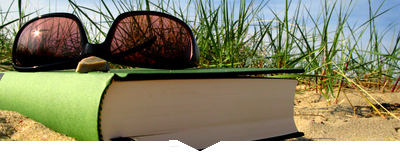
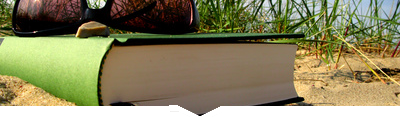
css_v2

diff --git a/index.html b/index.html
@@ -3,6 +3,7 @@
 
 <head>
     <meta charset="UTF-8">
+    <meta name="viewport" content="width=device-width, initial-scale=1.0">
     <title>Verhalen voor onderweg</title>
     <link rel="stylesheet" href="css/stylesheet.css">
     <link href="https://fonts.googleapis.com/css?family=Open+Sans" rel="stylesheet">
@@ -12,8 +13,8 @@
 <nav>
         <ul>
            <li><img src="img/logo_icon.png" alt="logo"><a href="index.html"></a></li>
-            <li><img src="img/account_icon.png" alt="account icon"><a class="account" href="aanmelden.html">Inloggen</a></li>
-                        <li><img src="img/lijstje_icon.png" alt="mijn lijstje icon"><a class="mijnlijstje" href="mijnlijstje.html">Mijn lijstje</a></li>
+            <li><img src="img/account_icon.png" alt="account icon"><a href="aanmelden.html">Inloggen</a></li>
+                        <li><img src="img/lijstje_icon.png" alt="mijn lijstje icon"><a href="mijnlijstje.html">Mijn lijstje</a></li>
         </ul>
     </nav>
 
@@ -22,6 +23,7 @@
         </div>
 
     <section class="filters">
+       <section class="categorieen">
         <form>
             <fieldset>
                 <legend>Filteropties</legend>
@@ -36,7 +38,8 @@
                 </select>
             </fieldset>
         </form>
-
+        </section>
+<section class ="sorteren">
         <form>
             <fieldset>
                 <legend>Sorteeropties</legend>
@@ -57,67 +60,68 @@
                 <img src="img/zoek_icon.png" alt="zoekfunctie">
             </fieldset>
         </form>
+        </section>
     </section>
 
         <main>
         <article>
+           <header>
             <h2>Boers</h2>
-            <footer>
+               <span> Vreemde taal</span>
                 <span>Stijloefening 86</span>
-                <span>Vreemde taal</span>
                 <time datetime="2011-07-14">14 juli 2011</time>
                 <a href="autheur.html" class="autheur">Molovisch</a>
                 <span>+500 woorden</span>
-            </footer>
-            <p>Ik stap dus op ut stationsplein in dieën groâte stad uut dieën bus, met mien zoân in zijne keierwoâguh. Mien zoân sloâpt. Gelaik n’n roâske. Ut regent en ut woâit. Ut volk war voârnoâm’luk met z’n eigens bezig. Kop in den kroâg, gok richting grond. En den deze war op weg noâr den Bibliotheek.</p><a href="vreemdetaal.html">Verder lezen</a>
+            </header>
+            <p>Ik stap dus op ut stationsplein in dieën groâte stad uut dieën bus, met mien zoân in zijne keierwoâguh. Mien zoân sloâpt. Gelaik n’n roâske. Ut regent en ut woâit. Ut volk war voârnoâm’luk met z’n eigens bezig. Kop in den kroâg, gok richting grond. En den deze war op weg noâr den Bibliotheek.</p><a href="vreemdetaal.html">Lees verder</a>
         </article>
 
         <article>
+           <header>
             <h2>Vrijdag de 13e</h2>
-            <footer>
+                   <span>Ervaringen</span>
                 <span>Stijloefening 71</span>
-                <span>Ervaringen</span>
                 <time datetime="2011-05-13">13 mei 2011</time>
                 <a href="autheur.html" class="autheur">Molovisch</a>
                 <span>+700 woorden</span>
-            </footer>
-            <p>Bij het uitstappen van de bus waait mijn jas open, precies op het moment dat de buschauffeur de deuren sluit. Terwijl ik de kinderwagen waarin mijn zoon ligt te krijsen vasthoudt, ren ik mee met de bus en schreeuw ik naar de buschauffeur dat hij moet stoppen, maar hij hoorte me niet.</p><a href="ervaringen.html">Verder lezen</a>
+            </header>
+            <p>Bij het uitstappen van de bus waait mijn jas open, precies op het moment dat de buschauffeur de deuren sluit. Terwijl ik de kinderwagen waarin mijn zoon ligt te krijsen vasthoudt, ren ik mee met de bus en schreeuw ik naar de buschauffeur dat hij moet stoppen, maar hij hoorte me niet.</p><a href="ervaringen.html">Lees verder</a>
         </article>
 
         <article>
+           <header>
             <h2>Lange Frans</h2>
-            <footer>
-                <span>Stijloefening 69</span>
                 <span>Gerijm</span>
+                <span>Stijloefening 69</span>
                 <time datetime="2011-05-10">10 mei 2011</time>
                 <a href="autheur.html" class="autheur">Molovisch</a>
                 <span>+400 woorden</span>
-            </footer>
-            <p>Uh, uh, dit is Lange Frans, uh, uh Daar gaan we dan… Drop die beat. (De beat wordt gedropt, Lange Frans gaat er vol in:) Het is dinsdagochtend, zoveel februari Ik stap uit de bus, zonder veel bombarie Voor me slaapt mijn zoon, in z’n kinderwagen. Voor hem zing ik dit lied.</p><a href="gerijm.html">Verder lezen</a>
+                </header>
+            <p>Uh, uh, dit is Lange Frans, uh, uh Daar gaan we dan… Drop die beat. (De beat wordt gedropt, Lange Frans gaat er vol in:) Het is dinsdagochtend, zoveel februari Ik stap uit de bus, zonder veel bombarie Voor me slaapt mijn zoon, in z’n kinderwagen. Voor hem zing ik dit lied.</p><a href="gerijm.html">Lees verder</a>
         </article>
 
         <article>
+           <header>
             <h2>Interview</h2>
-            <footer>
-                <span>Stijloefening 78</span>
                 <span>Dialoog</span>
+                <span>Stijloefening 78</span>
                 <time datetime="2011-06-01">01 juni 2011</time>
                 <a href="autheur.html" class="autheur">Molovisch</a>
                 <span>+900 woorden</span>
-            </footer>
-            <p>Molovich: De avond valt. In de verte het hongerige geblaf een roedel bloedhonden op zoek naar een ontsnapte gevangene. Wij zitten binnen. Plaid over de benen, een gin-tonic binnen handbereik. Naast mij zit ikzelf, Max J. Molovich. Levensgenieter, goeroe zonder volgelingen en zorgzame vader.</p><a href="dialoog.html">Verder lezen</a>
+                </header>
+            <p>Molovich: De avond valt. In de verte het hongerige geblaf een roedel bloedhonden op zoek naar een ontsnapte gevangene. Wij zitten binnen. Plaid over de benen, een gin-tonic binnen handbereik. Naast mij zit ikzelf, Max J. Molovich. Levensgenieter, goeroe zonder volgelingen en zorgzame vader.</p><a href="dialoog.html">Lees verder</a>
         </article>
 
         <article>
+           <header>
             <h2>Beroemd</h2>
-            <footer>
+               <span>Busverhalen</span>
                 <span>Stijloefening 98</span>
-                <span>Busverhalen</span>
                 <time datetime="2011-07-11">11 juli 2011</time>
                 <a href="autheur.html" class="autheur">Molovisch</a>
                 <span>+900 woorden</span>
-            </footer>
-            <p>Vlak voordat ik de bus uitstap bedank ik de buschauffeur via de spiegel voor zijn diensten. Hij zwaait joviaal terug. ‘Mijn vrouw is een groot fan van u’, roept hij. ‘Doe haar de groeten’, zeg ik en stap uit. Centraal Station. Ik duw mijn zoon voort.</p><a href="busverhalen.html">Verder lezen</a>
+            </header>
+            <p>Vlak voordat ik de bus uitstap bedank ik de buschauffeur via de spiegel voor zijn diensten. Hij zwaait joviaal terug. ‘Mijn vrouw is een groot fan van u’, roept hij. ‘Doe haar de groeten’, zeg ik en stap uit. Centraal Station. Ik duw mijn zoon voort.</p><a href="busverhalen.html">Lees verder</a>
         </article>
     </main>
 

diff --git a/css/stylesheet.css b/css/stylesheet.css
@@ -92,7 +92,9 @@ video {
     vertical-align: baseline;
 }
 
+
 /* HTML5 display-role reset for older browsers */
+
 article,
 aside,
 details,
@@ -136,10 +138,12 @@ table {
 
 
 /*mijn css*/
+
 body {
     font-family: 'Open Sans', sans-serif;
     font-size: 1em;
     line-height: 1.2em;
+    box-sizing: border-box;
 }
 
 h1 {
@@ -163,36 +167,44 @@ a {
 }
 
 footer {
-font-size: 0.6em;
+    font-size: 0.6em;
 }
 
+
 /*Omslag*/
+
 .omslag {
-    background-color: #fff;
+    background-color: red;
     background-image: url("../img/topfoto2.png");
-    background-size: cover;
+    background-position: center;
+    background-repeat: no-repeat;
+    height: 7.5em;
 }
 
 .omslag > h1 {
     color: #fff;
     text-align: center;
-    padding: 0.5em;
+    padding: 1em 0.5em;
 }
 
+
 /*artikel*/
+
 article {
     background-color: rgba(237, 219, 202, 0.5);
     margin: 3% 0;
     padding: 0.7em 1em;
 }
 
-article > footer {
+header {
     font-size: 0.8em;
 }
 
 article > a {
     background-color: #e83a69;
     text-decoration: none;
+    display: table;
+    margin: 0.5em;
     padding: 0.3em 0.8em;
     border-radius: 5px;
     text-align: center;
@@ -200,10 +212,14 @@ article > a {
 }
 
 /*navigatie*/
+
 nav {
-    text-align: right;
-    align-items: baseline;
     padding: 0 0.5em 0.5em 0.5em;
+}
+
+nav > ul {
+    display: flex;
+    align-items: baseline;
 }
 
 li {
@@ -212,6 +228,8 @@ li {
 
 li > img {
     width: 1em;
+    position: relative;
+    top: 0.15em;
     margin: 0.5em 0.5em 0em 0.5em;
 }
 
@@ -219,30 +237,51 @@ li > a {
     text-decoration: none;
 }
 
-.mijnlijstje {
-    color: #e83a69;
+li:nth-of-type(1) {
+    flex-grow: 6;
 }
 
-.account {
+li:nth-of-type(2) a {
     color: #55b366;
+    margin-right: 0.5em;
+}
+
+li:nth-of-type(3) a {
+    color: #e83a69;
+    margin-right: 0.5em;
 }
 
 
 /*filters*/
+
 .filters {
     display: flex;
+    width: 100vw;
+    justify-content: space-around;
     max-width: 30em;
-}
-
-.filters > form {
-    width: 50%;
+    margin: auto;
+    padding: 0 1em;
 }
 
 legend {
     display: none;
 }
 
-select{
-    width: 100%;
+section {
+    display: flex;
 }
 
+.categorieen{
+    flex-basis: 50%;
+}
+
+.categorieen select {
+width: 15em;
+}
+.sorteren{
+flex-basis: 50%;
+}
+
+.sorteren select {
+width: 13em;
+}

diff --git a/aanmelden.html b/aanmelden.html
@@ -3,6 +3,7 @@
 
 <head>
     <meta charset="UTF-8">
+    <meta name="viewport" content="width=device-width, initial-scale=1.0">
     <title>Aanmelden</title>
     <link rel="stylesheet" href="css/stylesheet.css">
     <link href="https://fonts.googleapis.com/css?family=Open+Sans" rel="stylesheet">

diff --git a/auteur.html b/auteur.html
@@ -3,6 +3,7 @@
 
 <head>
     <meta charset="UTF-8">
+    <meta name="viewport" content="width=device-width, initial-scale=1.0">
     <title>Auteur</title>
     <link rel="stylesheet" href="css/stylesheet.css">
     <link href="https://fonts.googleapis.com/css?family=Open+Sans" rel="stylesheet">

diff --git a/boers.html b/boers.html
@@ -3,6 +3,7 @@
 
 <head>
     <meta charset="UTF-8">
+    <meta name="viewport" content="width=device-width, initial-scale=1.0">
     <title>Boers</title>
     <link rel="stylesheet" href="css/stylesheet.css">
     <link href="https://fonts.googleapis.com/css?family=Open+Sans" rel="stylesheet">
